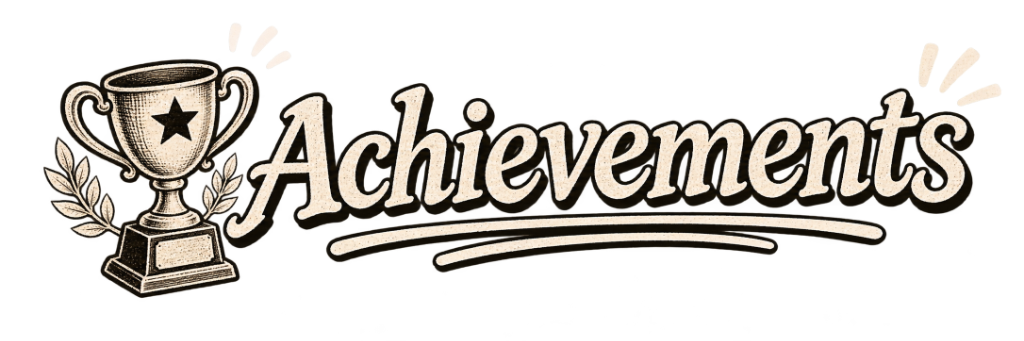
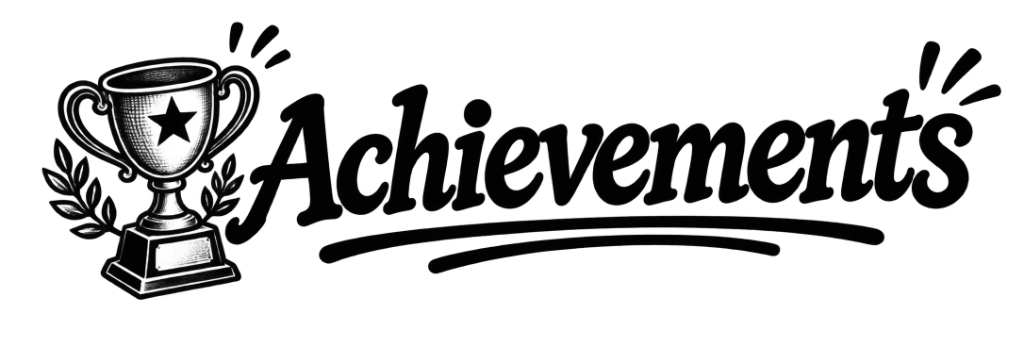
feat: use new trophy cursive heading for achievements section

Changed region(s): [[0.0312, 0.0587, 1.0, 0.8798]]

diff --git a/src/components/AchievementsSection.tsx b/src/components/AchievementsSection.tsx
@@ -397,24 +397,24 @@ export default function AchievementsSection() {
       {/* Mobile/Tablet Dedicated View (< md): Exact Vintage Parchment Ledger in Vertical Orientation */}
       <div className="md:hidden relative z-10 w-full min-h-0 flex flex-col items-center px-3 sm:px-6 pt-5 sm:pt-6 pb-5 sm:pb-6 overflow-hidden">
         {/* Top Header: Achievements Title on Vintage Paper Background */}
-        <div className="relative w-52 sm:w-60 aspect-[1024/341] shrink-0 mb-2.5 sm:mb-3 filter drop-shadow-[0_4px_16px_rgba(0,0,0,0.9)] -rotate-1 select-none pointer-events-none flex items-center justify-center">
+        <div className="relative w-56 sm:w-64 aspect-[1024/341] shrink-0 mb-3 sm:mb-3.5 filter drop-shadow-[0_4px_16px_rgba(0,0,0,0.9)] -rotate-1 select-none pointer-events-none flex items-center justify-center">
           {/* Background Paper Image */}
           <Image
             src="/images/heading-paper-bg.png"
             alt=""
             fill
             priority
-            sizes="(max-width: 640px) 220px, 280px"
+            sizes="(max-width: 640px) 240px, 300px"
             className="object-fill pointer-events-none select-none filter contrast-105"
           />
           {/* Achievements Graphic on Top */}
-          <div className="relative z-10 w-[84%] h-[75%] flex items-center justify-center">
+          <div className="relative z-10 w-[88%] h-[80%] flex items-center justify-center">
             <Image
               src="/images/achievements-title.png"
               alt="Achievements"
               fill
               priority
-              sizes="(max-width: 640px) 200px, 260px"
+              sizes="(max-width: 640px) 220px, 280px"
               className="object-contain object-center pointer-events-none select-none filter contrast-125"
             />
           </div>
